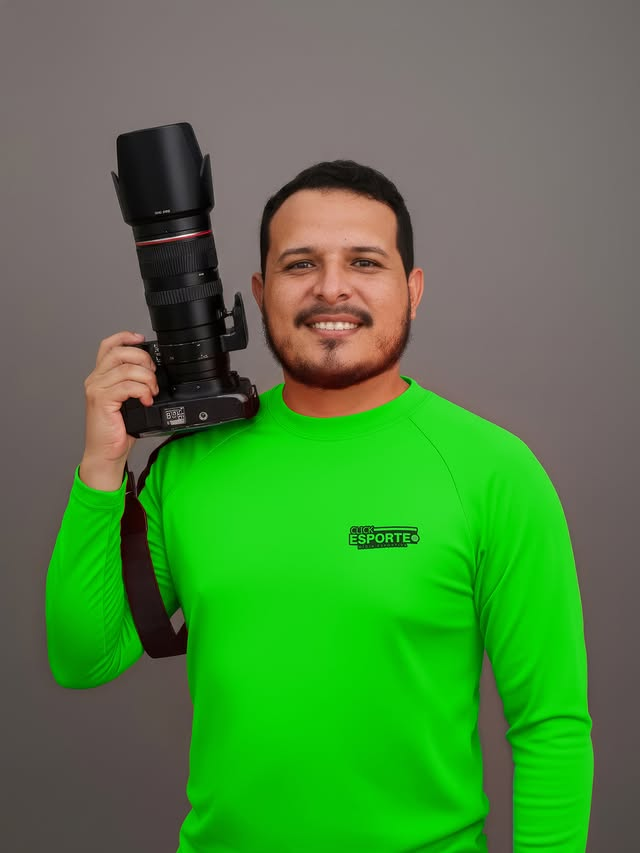
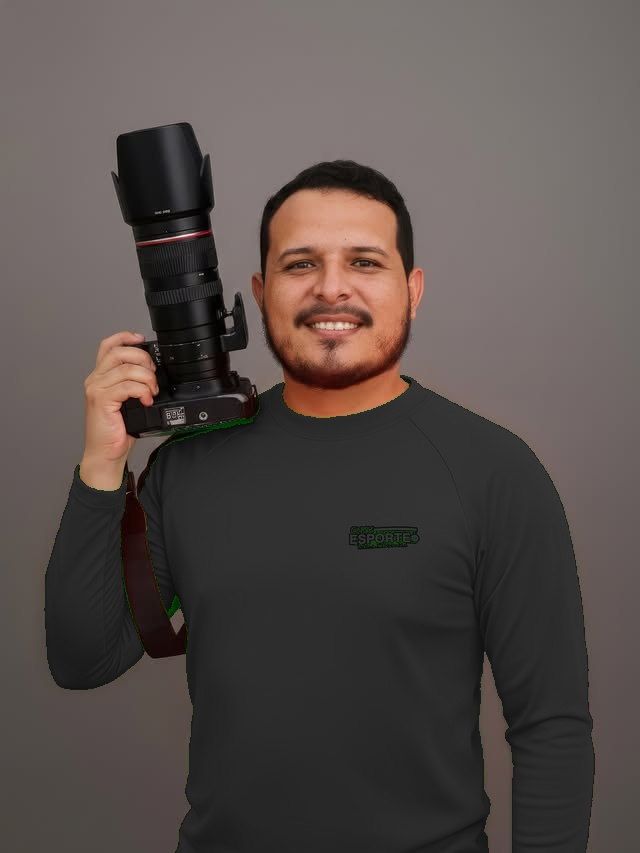
fix: diversificar fotos reais do Thaylan Andrade em ação com traje preto profissional

diff --git a/thaylan-andrade/index.html b/thaylan-andrade/index.html
@@ -226,7 +226,7 @@
       <div class="gallery-grid">
         <!-- Item 1: Fotografia -->
         <div class="gallery-item">
-          <img src="assets/thaylan_real.jpg" alt="Fotografia de Retrato Thaylan Andrade">
+          <img src="assets/thaylan_action.jpg" alt="Fotografia em Ação Thaylan Andrade">
           <div class="gallery-overlay">
             <h4>Fotografia Profissional & Esportiva</h4>
             <p>Fotografia de estúdio, ensaios e cobertura de eventos em alta definição.</p>
@@ -253,7 +253,7 @@
     <div class="container">
       <div class="about-grid">
         <div>
-          <img src="assets/thaylan_real.jpg" alt="Thaylan C Andrade" class="about-img">
+          <img src="assets/thaylan_action.jpg" alt="Thaylan C Andrade Fotógrafo" class="about-img">
         </div>
 
         <div>